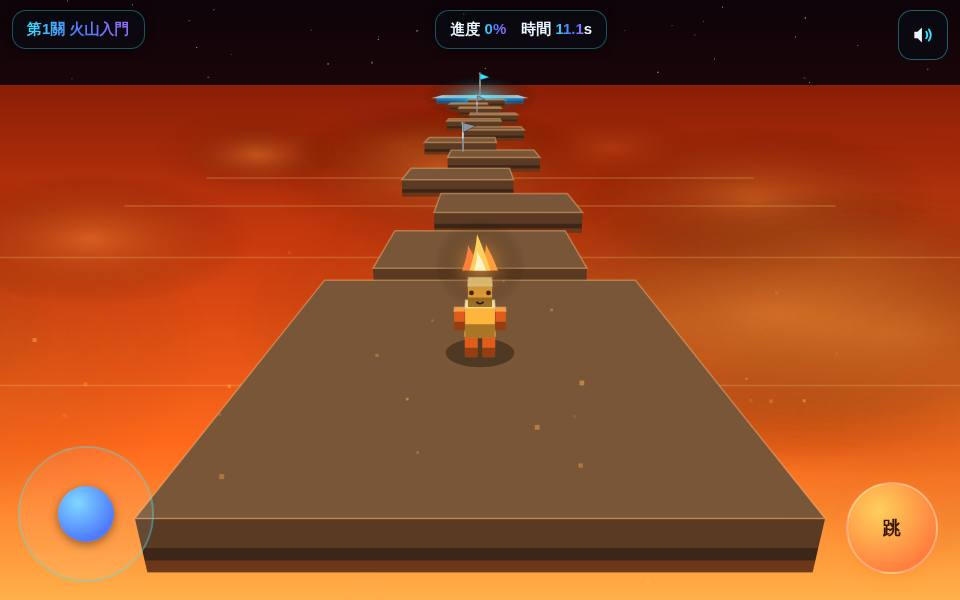
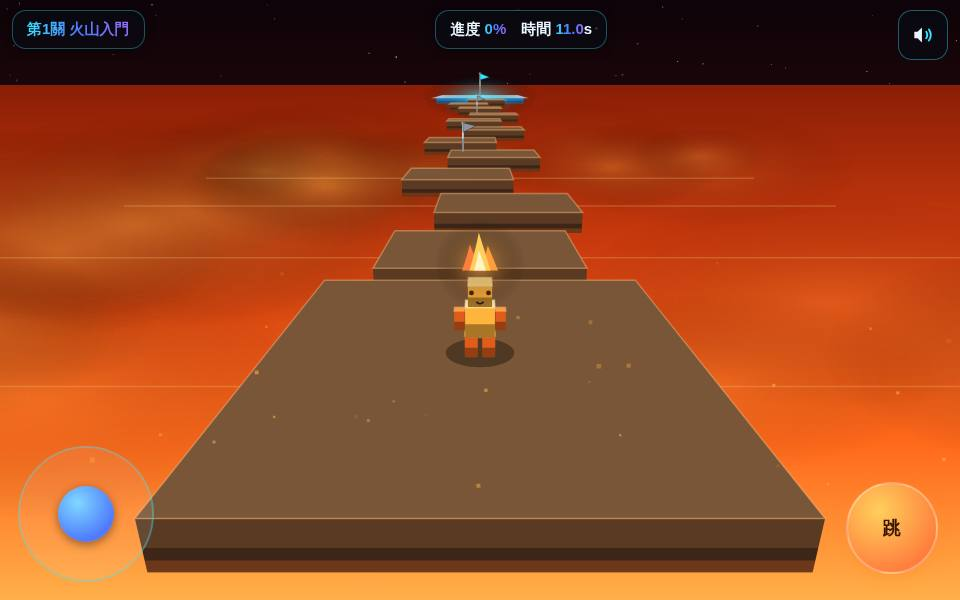
跑酷火人3D PRO 批次C最終版上線
Claude-Session: https://claude.ai/code/session_012aVhBduPByxrnKLqMDRH5h

diff --git a/pro/games/跑酷火人3D.html b/pro/games/跑酷火人3D.html
@@ -553,14 +553,15 @@ function updatePhysics(dt,t){
   else player.coyote=Math.max(0,player.coyote-dt);
 
   if(input.jumpBuffer>0 && player.coyote>0){
-    player.vy=JUMP_V;
+    player.vy=JUMP_V; player.bounceLock=false;
     player.grounded=false; player.coyote=0; input.jumpBuffer=0;
     sfx.jump();
     player.sy=1.35; player.sx=0.72;
     spawnParts3(player.x, player.y+4, player.z, '#ffcf5c', 8, 150, 0.35, 5);
   }
   input.jumpBuffer=Math.max(0,input.jumpBuffer-dt);
-  if(!input.jumpHeld && player.vy>0) player.vy*= (1-6*dt);   // 可變跳高
+  if(!input.jumpHeld && player.vy>0 && !player.bounceLock) player.vy*= (1-6*dt);   // 可變跳高（彈跳墊不剪）
+  if(player.vy<=0) player.bounceLock=false;
 
   // 頂點懸浮 + 上慢下快
   let g = player.vy>0?GRAVITY:GRAVITY_FALL;
@@ -606,7 +607,7 @@ function updatePhysics(dt,t){
       shake=Math.min(shake+1.5,4);
     }
     if(landedPlat.type==='bounce'){
-      player.vy=JUMP_V*1.42; player.grounded=false;
+      player.vy=JUMP_V*1.42; player.grounded=false; player.bounceLock=true;
       landedPlat.pressT=0.25;
       sfx.bounce();
       player.sy=1.5; player.sx=0.6;